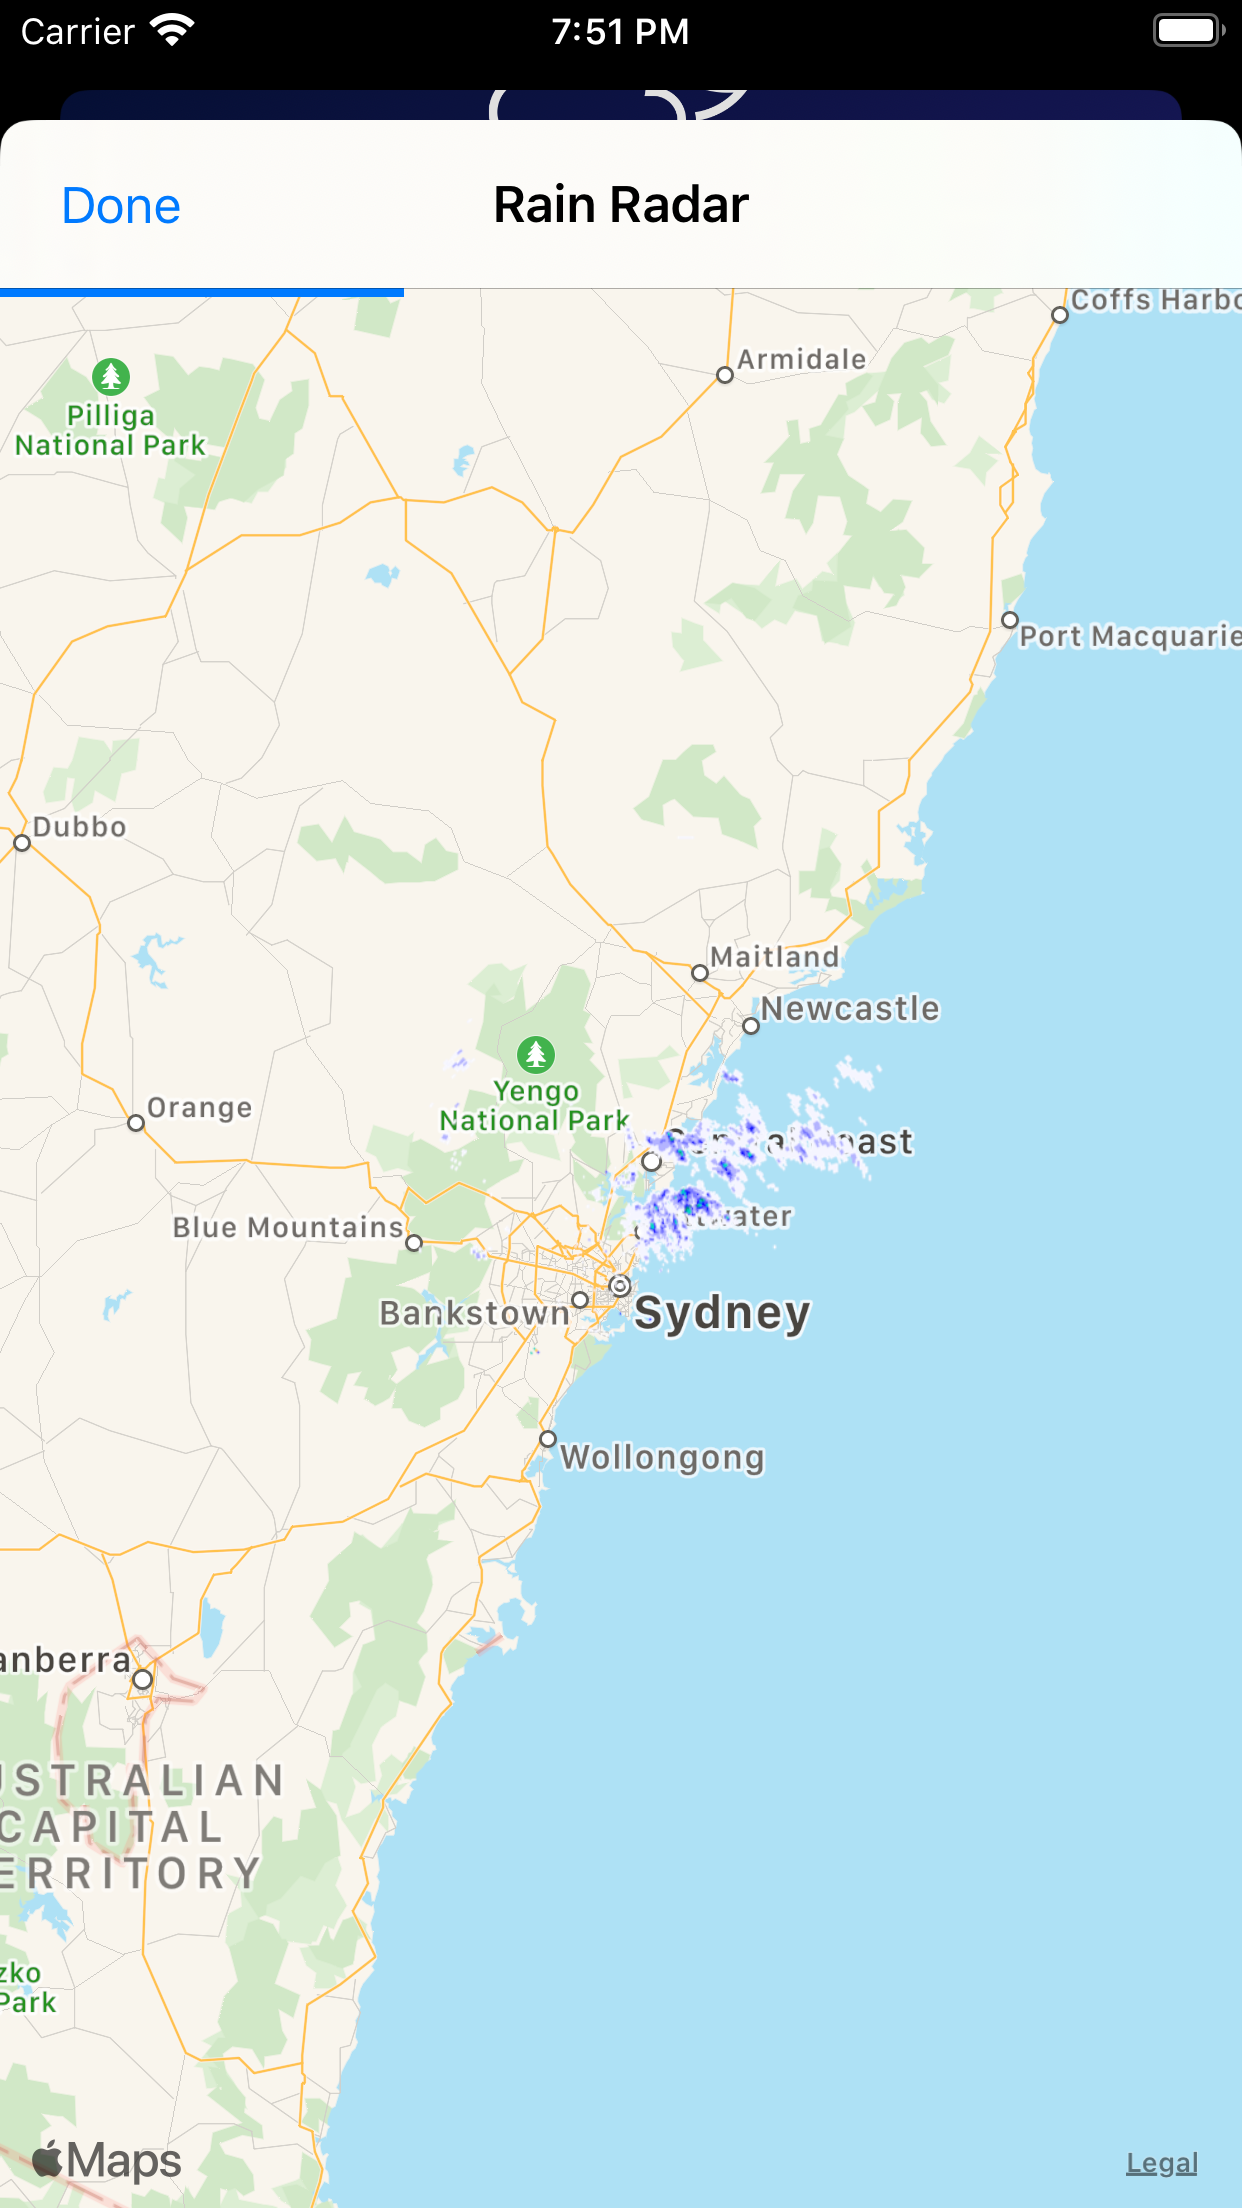
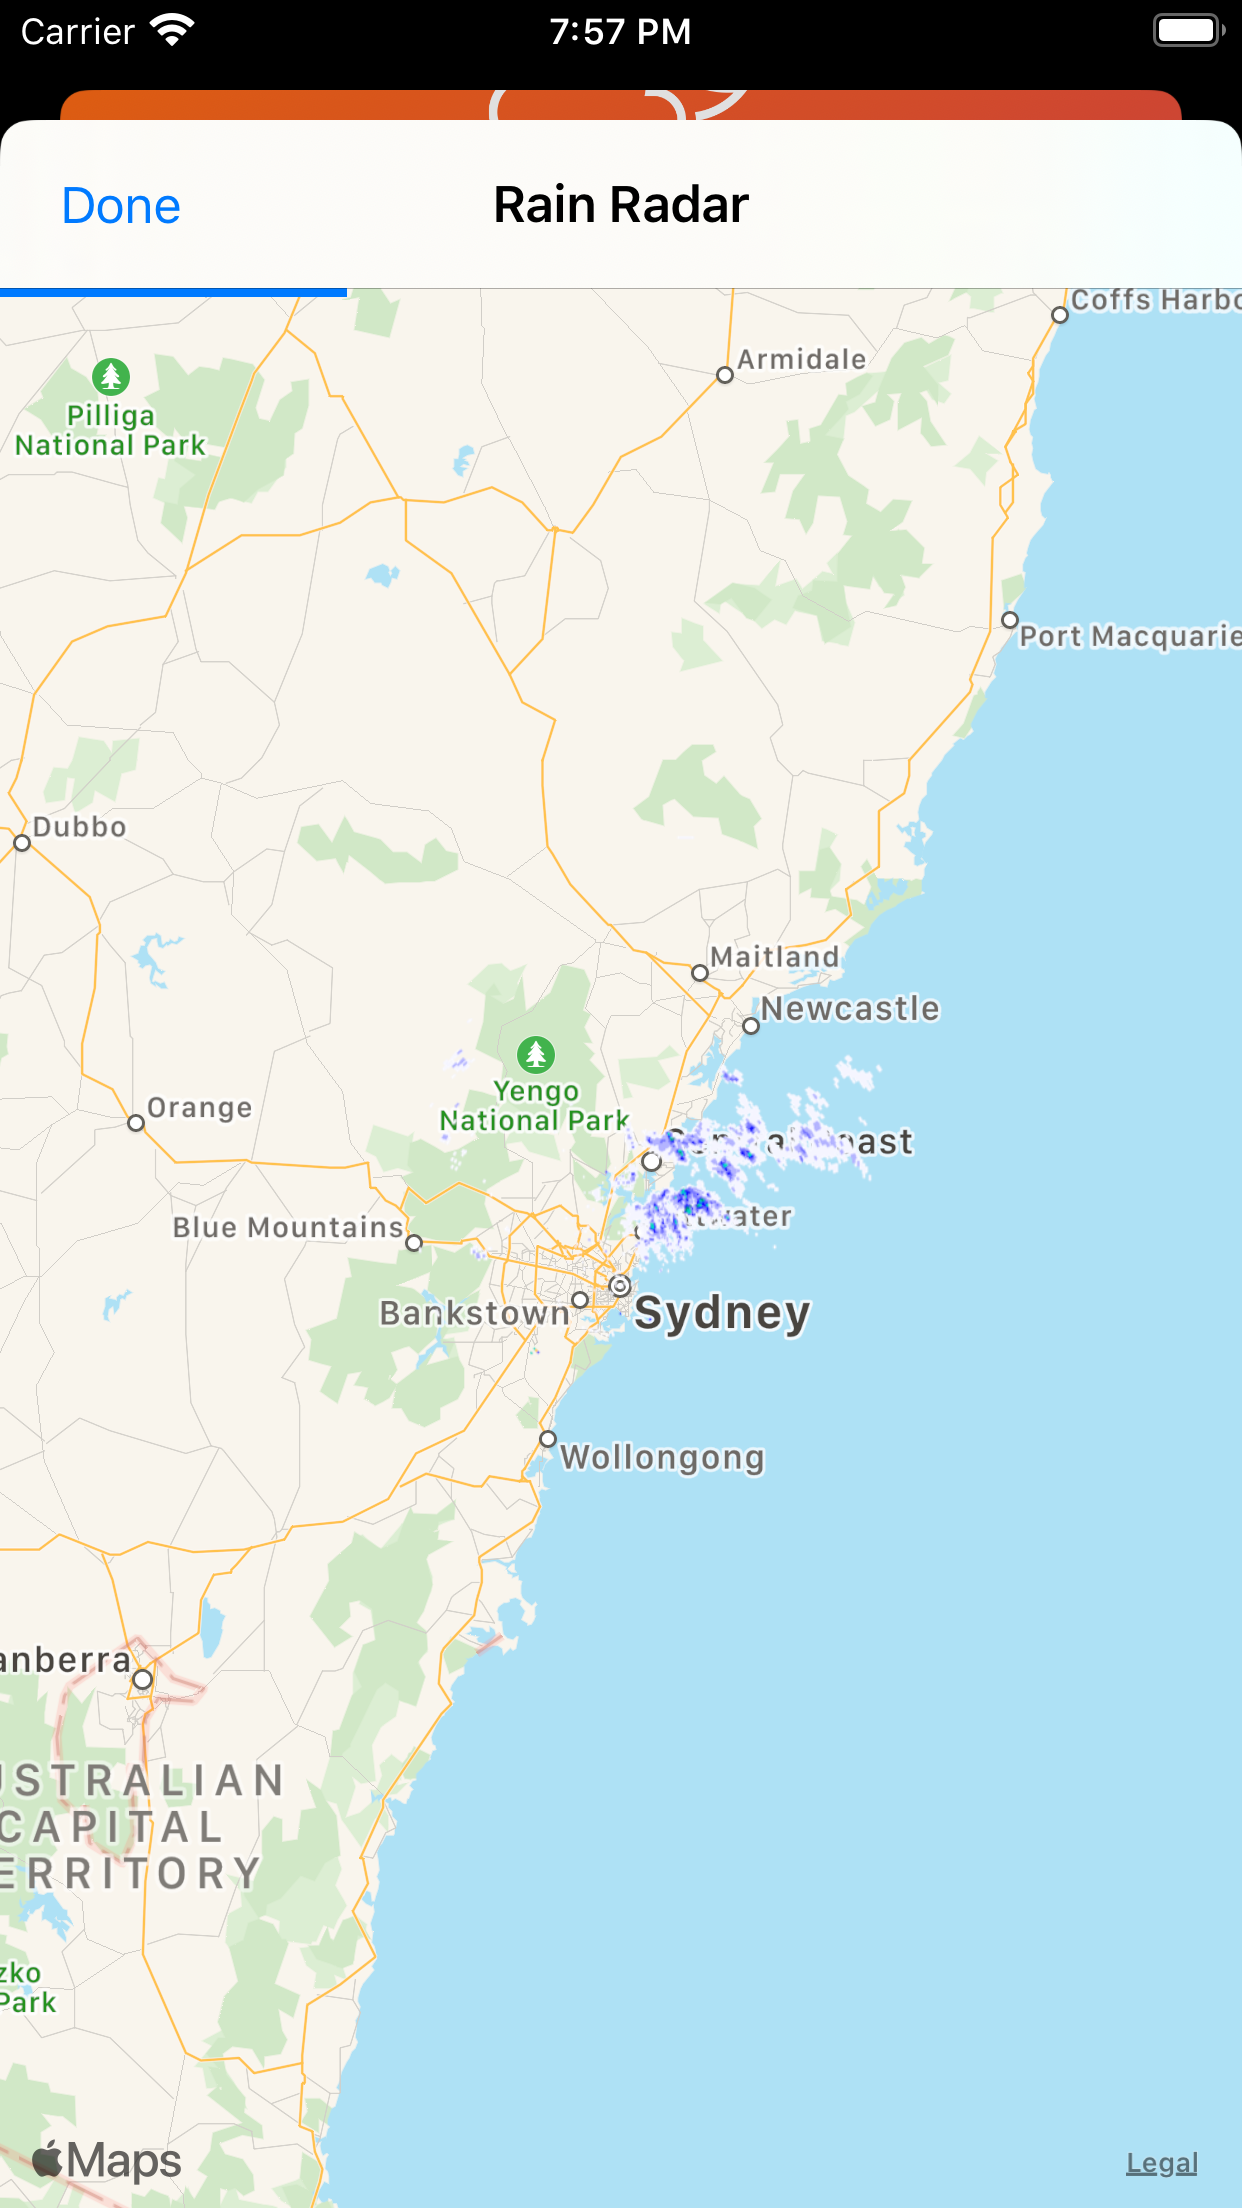
Screenshot update

Changed region(s): [[0.0306, 0.0, 0.9485, 0.0625], [0.2754, 0.125, 0.306, 0.1562]]

diff --git a/sweather-2/Content View/BackgroundGradient.swift b/sweather-2/Content View/BackgroundGradient.swift
@@ -13,7 +13,7 @@ struct BackgroundGradient: View {
     let timePeriod: SWWeather.SWTimePeriod
     
     init(timePeriod: SWWeather.SWTimePeriod = .isDayTime) {
-        self.timePeriod = timePeriod
+        self.timePeriod = CommandLine.arguments.contains("--UITests") ? .sunsetOccurring : timePeriod
     }
 
     var gradients: [[Color]] = [
